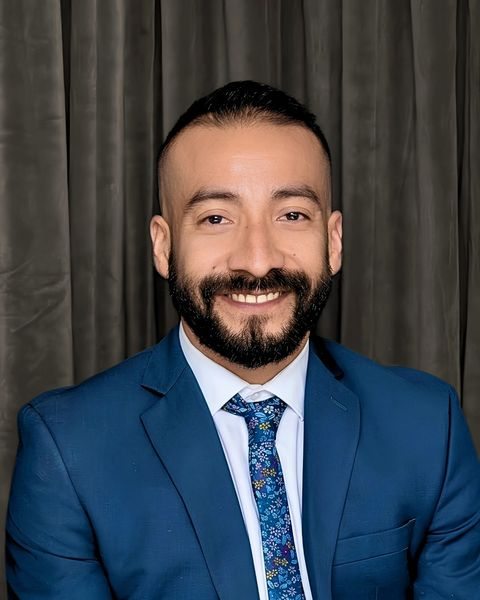
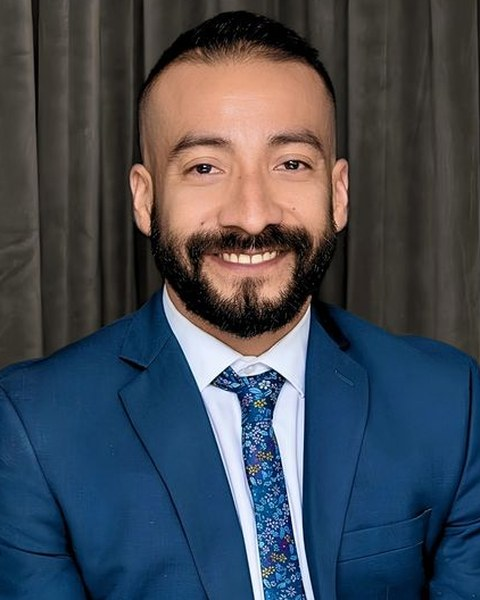
v0.20.2: align team photo head tops; drop duplicate home buttons
Re-crop Danny's staff photo so his head top sits at the same height as
Denia's. Remove the inline calendar and WhatsApp buttons from Home; the
sticky bar already carries both.

Claude-Session: https://claude.ai/code/session_01JTsAagZSE4Lye21XMHrPRm

diff --git a/site/assets/js/app.js b/site/assets/js/app.js
@@ -7,7 +7,7 @@
 (function () {
   "use strict";
 
-  var VERSION = "0.20.1";
+  var VERSION = "0.20.2";
   var UPDATED = "2026-10-01";
   var F = window.PEA_FACTS, T = window.T;
   var AZ = -7 * 3600 * 1000;                       /* Arizona: UTC-7, no DST */
@@ -558,11 +558,13 @@
       info: [link('info'), '👋', A.info, ''],
       wa:   [F.org.waHref, '💬', A.wa, A.waShort]
     };
-    var keys = sticky ? ['home', 'cal', 'wa'] : ['cal', 'info', 'wa'];
-    return '<div class="' + (sticky ? 'sticky-actions' : 'quick-actions') + '" aria-label="' + esc(L.ui.quick) + '">' + keys.map(function (k) {
+    var keys = sticky ? ['home', 'cal', 'wa'] : ['info'];   /* calendar + WhatsApp live in the sticky bar only */
+    var btns = keys.map(function (k) {
       var a = all[k]; if (!a[0]) return '';
       return ext(a[0], '<span aria-hidden="true">' + a[1] + '</span><span>' + esc(sticky ? a[3] : a[2]) + '</span>', 'quick-action action-' + k);
-    }).join('') + '</div>';
+    }).join('');
+    if (!btns) return '';
+    return '<div class="' + (sticky ? 'sticky-actions' : 'quick-actions') + '" aria-label="' + esc(L.ui.quick) + '">' + btns + '</div>';
   }
   function styleSections(main) {
     if (currentRoute() !== 'inicio') {

diff --git a/site/index.html b/site/index.html
@@ -7,7 +7,7 @@
 <meta name="description" content="Todo lo que necesita saber para unirse a la Academia de Padres Educadores de ALL In Education: pasos, calendario, Zoom y preguntas frecuentes. / Everything you need to know to join ALL In Education's Parent Educator Academy.">
 <meta name="theme-color" content="#053CAA">
 <meta name="color-scheme" content="light">
-<meta name="generator" content="PEA Applicant Hub v0.20.1">
+<meta name="generator" content="PEA Applicant Hub v0.20.2">
 <meta property="og:type" content="website">
 <meta property="og:title" content="Academia de Padres Educadores / Parent Educator Academy — ALL In Education">
 <meta property="og:description" content="Un programa gratuito de liderazgo para familias y cuidadores en Arizona. / A free leadership program for families and caregivers in Arizona.">

diff --git a/README.md b/README.md
@@ -143,6 +143,7 @@ Earlier QA: v0.10.0 checked nine routes in both languages at phone/desktop width
 - v0.11.0: expandable class details in Calendar (module descriptions, Zoom registration, worksheet, resources and individual calendar downloads); financial-incentive FAQ and before/now section removed; school staff welcomed; free for every participant; “docentes” → “maestros”; parity gate now checks module descriptions and flags “docentes” and week-count language.
 - v0.12.0: design tokens mapped to the palette, sticky header with ES | EN pill toggle, floating bottom action bar with safe-area padding and icon-above-label layout, Home audience router cards, accordion eligibility and FAQ, reserved skeleton utility. See [maintenance/qa/v0.12.0.md](maintenance/qa/v0.12.0.md).
 - v0.13.0: Participar gains a 3-step applicant orientation timeline, a help card (email/call, 48px targets) beside the join CTAs, and a program-details/commitment accordion; audience icons 📝 🎓 🤝. See [maintenance/qa/v0.13.0.md](maintenance/qa/v0.13.0.md).
+- v0.20.2 (Danny Hernández, 2026-10-02): Team page — Danny’s photo re-cropped (from the original 480×600: 422×528 region at x 36, y 71, scaled back to 480×600) so both head tops sit at the same height as Denia’s. Home page — the inline “Ver calendario / View calendar” and “WhatsApp al equipo” buttons removed because the sticky bar already carries both; the information-session button stays inline while an upcoming session exists, and the row disappears when it has no buttons.
 - v0.20.1 (Danny Hernández, 2026-10-01): staff titles confirmed — Danny Hernández, “Gerente de Impacto Comunitario y Aprendizaje / Community Impact & Learning Manager”; Denia Uriarte, “Gerente de programas de liderazgo / Leadership Programs Manager”. Graduate recognition split by county: **Maricopa, Monday December 14, 2026, 9:00–11:00 AM** (`RECM`, shown as a milestone); **Yuma still undated** (`RECY`, hidden until dated). Milestones in the .ics download carry no location (no venue is published) and are marked free time.
 - v0.20.0 (Danny Hernández, 2026-10-01): **Milestones** on the Calendar, with a “Fechas clave / Milestones” filter. Orientation and Graduation carry “Inicio del curso / Cohort begins” and “Cierre del curso / Cohort ends” tags (`milestone: "start" | "end"` in facts.js). **Applications open for the next cohort** is computed: all day on the Wednesday after the cohort's 3rd class (FA26: Oct 14 → Spring 2027 becomes the form's default and Fall 2027 is added; set by `applySwitch` on the cohort; the switch in the Airtable form itself is still made by hand). **Maricopa & Yuma County Graduate Recognition** is stored as `REC` with `start: null`: undated events never render; add start/end to publish it. Milestones use the `badge-hito` badge (Charcoal on Gold tint) and download as all-day .ics events. **Up next** on Home: the next 2 dated events (no-class days excluded), each linking to `#calendario/<COHORT>-<CODE>`, which opens and scrolls to that card; it is a status strip, not a collapsible section. **PEA team** page (`#equipo`): Danny Hernández and Denia Uriarte, with photos (480×600 JPEG), titles and firstname@allineducation.org; Questions & help links to it. Pending: Denia's title and approval of Danny's Spanish title. The interest form stays the Airtable form.
 - v0.19.0 (Danny Hernández's calendar spec, 2026-09-30): the Calendar table is replaced by **date-badge cards** (72px date tile: month · day · weekday; category badge; title; 🕒 time) grouped under **sticky month dividers** that pin flush below the header (`--header-h` corrected to the measured 68px desktop / 64px phone). Tapping a card still opens its details and three class buttons; filters, past/today states and the 60-second refresh are unchanged. Badges: Clase = Blue on Blue tint; Sesión informativa = Charcoal on Pink tint (12px Pink text fails contrast), plus a Pink left edge on the card; Graduación = Charcoal on Gold tint (the spec's #8A6100 is off-palette); Grupo de enfoque = Purple on Purple tint (the spec's “Especial” slot); No hay clase = Charcoal on #F5F5F5. Spec tokens (`--brand-*`, `--tint-*-fill`, `--radius-badge`, `--shadow-card`) alias palette values; the spec's #F8FAFC / #E2E8F0 / slate shadows map to #F7F7F7 / #E7E7E7 / Blue-tinted shadows. Bottom buttons: “Descargar todas las fechas (.ics)” (solid Blue) and “Ver en calendario público / View the public calendar” (2px Blue outline), 48px tall, side by side on wider screens.
